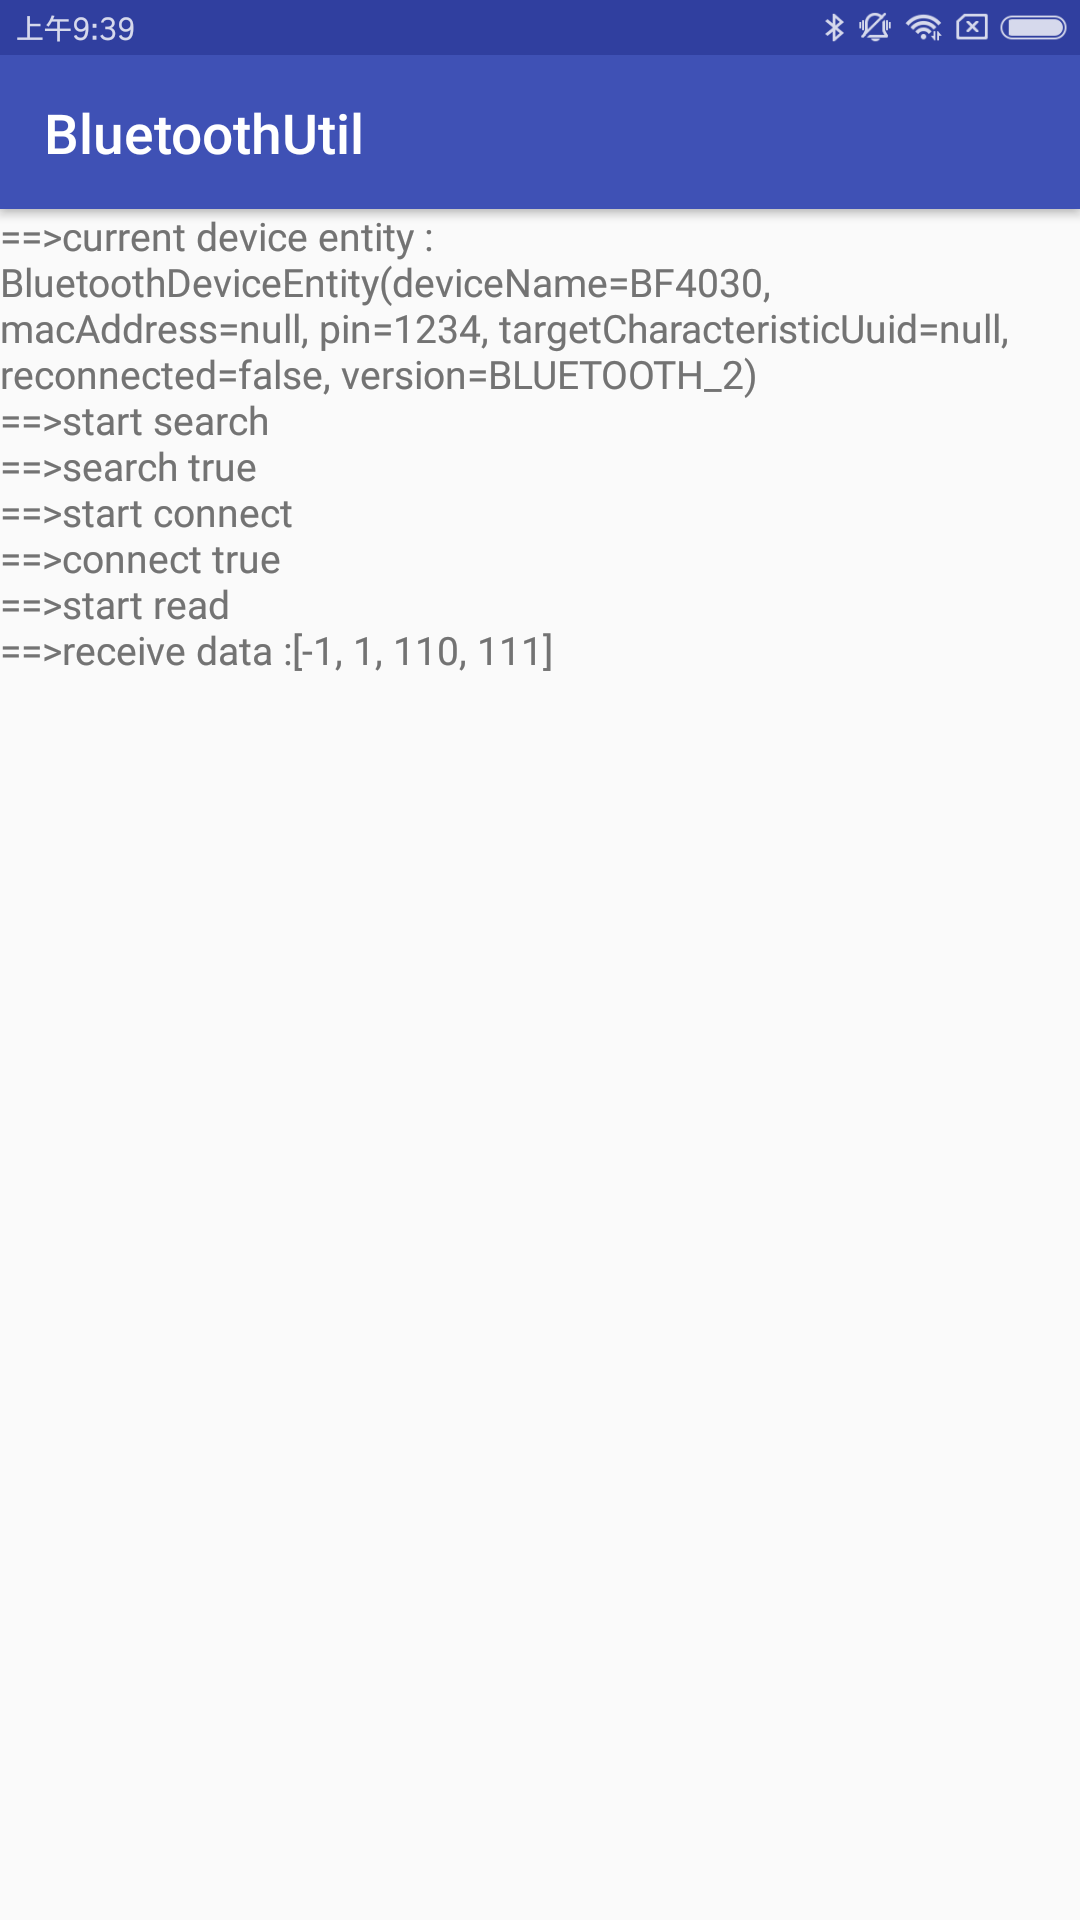
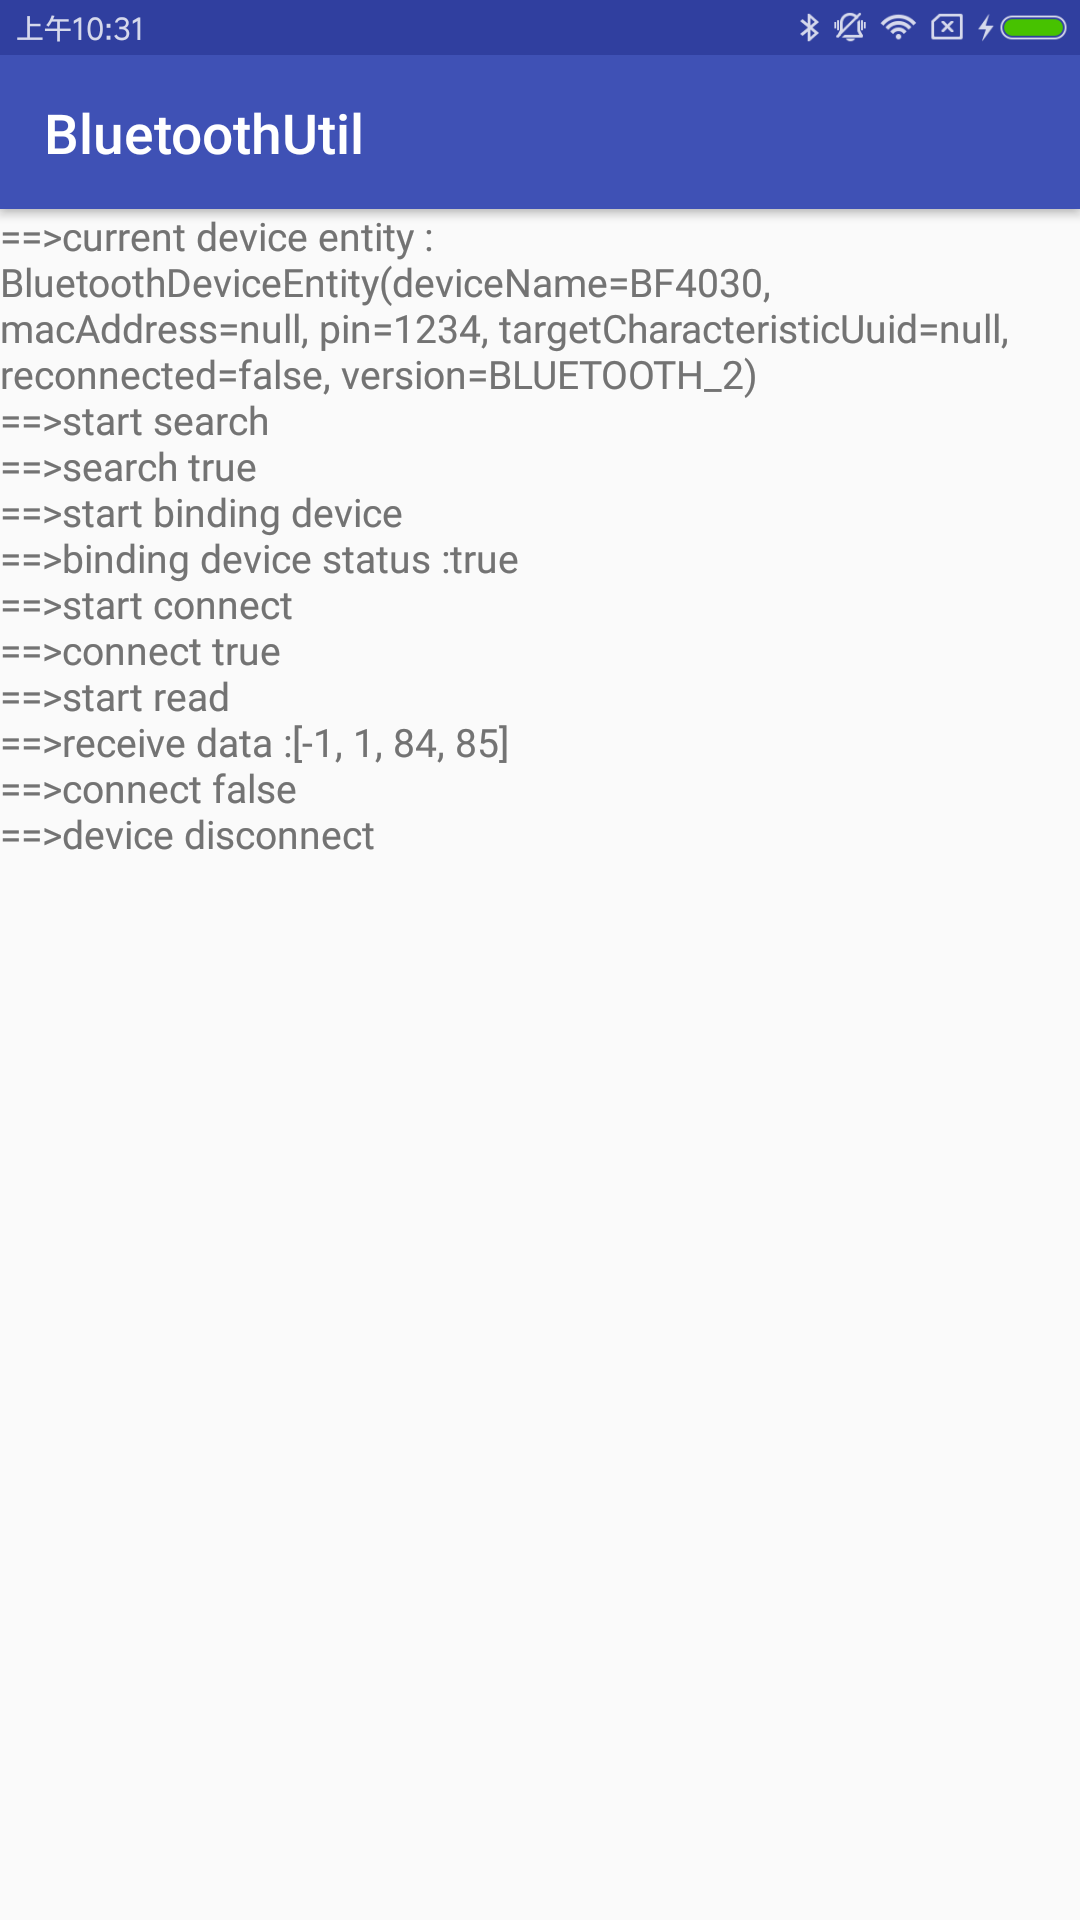
change measure progress callback

diff --git a/app/src/main/java/com/hd/bluetooth/MainActivity.kt b/app/src/main/java/com/hd/bluetooth/MainActivity.kt
@@ -23,7 +23,7 @@ import java.util.*
 
 class MainActivity : AppCompatActivity() {
 
-    private var version: Int = 2
+    private var version: Int = 4
 
     private val REQUEST_CODE = 10086
 
@@ -88,10 +88,6 @@ class MainActivity : AppCompatActivity() {
 
     private fun addProgress4Callback() = object : MeasureBle4ProgressCallback {
 
-        override fun write(bluetoothGattCharacteristic: BluetoothGattCharacteristic, bluetoothLeService: BluetoothLeService) {
-            BL.d("it's now allowed to write")
-        }
-
         override fun startSearch() {
             BL.d(" startSearch current thread:" + Thread.currentThread())
             showResult("==>start search \n")
@@ -99,6 +95,14 @@ class MainActivity : AppCompatActivity() {
 
         override fun searchStatus(success: Boolean) {
             showResult("==>search $success\n")
+        }
+
+        override fun startBinding() {
+            showResult("==>start binding device \n")
+        }
+
+        override fun boundStatus(success: Boolean) {
+            showResult("==>binding device status :$success \n")
         }
 
         override fun startConnect() {
@@ -111,6 +115,10 @@ class MainActivity : AppCompatActivity() {
 
         override fun startRead() {
             showResult("==>start read \n")
+        }
+
+        override fun write(bluetoothGattCharacteristic: BluetoothGattCharacteristic, bluetoothLeService: BluetoothLeService) {
+            BL.d("it's now allowed to write")
         }
 
         override fun reading(data: ByteArray) {
@@ -121,16 +129,9 @@ class MainActivity : AppCompatActivity() {
             BL.d("disconnect current thread:" + Thread.currentThread())
             showResult("==>device disconnect \n")
         }
-
-        override fun error(string: String) {
-            showResult("==>measure error : $string \n")
-        }
     }
 
     private fun addProgress2Callback() = object : MeasureBle2ProgressCallback {
-        override fun write(outputStream: OutputStream) {
-            BL.d("it's now allowed to write")
-        }
 
         override fun startSearch() {
             BL.d(" startSearch current thread:" + Thread.currentThread())
@@ -139,6 +140,14 @@ class MainActivity : AppCompatActivity() {
 
         override fun searchStatus(success: Boolean) {
             showResult("==>search $success\n")
+        }
+
+        override fun startBinding() {
+            showResult("==>start binding device \n")
+        }
+
+        override fun boundStatus(success: Boolean) {
+            showResult("==>binding device status :$success \n")
         }
 
         override fun startConnect() {
@@ -153,6 +162,10 @@ class MainActivity : AppCompatActivity() {
             showResult("==>start read \n")
         }
 
+        override fun write(outputStream: OutputStream) {
+            BL.d("it's now allowed to write")
+        }
+
         override fun reading(data: ByteArray) {
             showResult("==>receive data :${Arrays.toString(data)} \n")
         }
@@ -160,10 +173,6 @@ class MainActivity : AppCompatActivity() {
         override fun disconnect() {
             BL.d(" disconnect current thread:" + Thread.currentThread())
             showResult("==>device disconnect \n")
-        }
-
-        override fun error(string: String) {
-            showResult("==>measure error : $string \n")
         }
     }
 

diff --git a/bluetoothutil/src/main/java/com/hd/bluetoothutil/driver/Bluetooth2Handler.kt b/bluetoothutil/src/main/java/com/hd/bluetoothutil/driver/Bluetooth2Handler.kt
@@ -6,7 +6,6 @@ import android.bluetooth.BluetoothSocket
 import android.content.Context
 import android.os.Build
 import android.os.SystemClock
-import com.hd.bluetoothutil.R
 import com.hd.bluetoothutil.callback.MeasureBle2ProgressCallback
 import com.hd.bluetoothutil.config.BleMeasureStatus
 import com.hd.bluetoothutil.config.BluetoothDeviceEntity
@@ -68,16 +67,16 @@ class Bluetooth2Handler(context: Context, entity: BluetoothDeviceEntity,
     override fun startConnect() {
         BL.d("start connect device : $targetDevice + ${targetDevice!!.bondState}")
         if (targetDevice!!.bondState != BluetoothDevice.BOND_BONDED) {
+            callback.boundStatus(false)
             if (Build.VERSION.SDK_INT >= Build.VERSION_CODES.KITKAT) {
                 /** manual binding*/
                 BL.d("manual binding")
-                if(targetDevice!!.createBond()){
+                if (targetDevice!!.createBond()) {
                     Thread(ConnectRunnable(targetDevice!!)).start()
-                }else{
-                    callback.error(context.resources.getString(R.string.binding_failed))
                 }
             }
         } else {
+            callback.boundStatus(true)
             Thread(ConnectRunnable(targetDevice!!)).start()
         }
     }
@@ -150,16 +149,9 @@ class Bluetooth2Handler(context: Context, entity: BluetoothDeviceEntity,
                 byteBuffer.clear()
                 return false
             } else {
-                error(NullPointerException(Bluetooth2Handler::class.java.simpleName))
+                reconnected()
             }
             return true
-        }
-
-        private fun error(e: Exception? = null) {
-            BL.d("bluetooth handler2 error :" + e)
-            stopMeasure()
-            callback.disconnect()
-            callback.error()
         }
 
         private val default_reconnected_number = 5
@@ -175,7 +167,7 @@ class Bluetooth2Handler(context: Context, entity: BluetoothDeviceEntity,
                 run()
             } else {
                 callback.connectStatus(false)
-                error(IOException(Bluetooth2Handler::class.java.simpleName))
+                callback.disconnect()
             }
         }
     }

diff --git a/bluetoothutil/src/main/java/com/hd/bluetoothutil/BluetoothController.kt b/bluetoothutil/src/main/java/com/hd/bluetoothutil/BluetoothController.kt
@@ -5,7 +5,6 @@ import android.content.Context
 import com.hd.bluetoothutil.callback.MeasureBle2ProgressCallback
 import com.hd.bluetoothutil.callback.MeasureBle4ProgressCallback
 import com.hd.bluetoothutil.callback.MeasureProgressCallback
-import com.hd.bluetoothutil.callback.SecurityCheckCallback
 import com.hd.bluetoothutil.config.BluetoothDeviceEntity
 import com.hd.bluetoothutil.config.DeviceVersion
 import com.hd.bluetoothutil.driver.Bluetooth2Handler
@@ -46,11 +45,7 @@ object BluetoothController {
     private fun initBlueHandler(context: Context, entity: BluetoothDeviceEntity, callback: MeasureProgressCallback) {
         BL.d("BluetoothController initBlueHandler")
         val targetVersion = entity.version
-        val mBluetoothAdapter = BluetoothSecurityCheck.newInstance(context, object : SecurityCheckCallback {
-            override fun securityHint(hint: String) {
-                callback.error(hint)
-            }
-        }).check(targetVersion)
+        val mBluetoothAdapter = BluetoothSecurityCheck.newInstance(context).check(targetVersion)
         if (mBluetoothAdapter != null) {
             if (targetVersion === DeviceVersion.BLUETOOTH_2 && callback is MeasureBle2ProgressCallback) {
                 bluetoothHandler = Bluetooth2Handler(context, entity, mBluetoothAdapter, callback)

diff --git a/bluetoothutil/src/main/java/com/hd/bluetoothutil/callback/MeasureProgressCallback.kt b/bluetoothutil/src/main/java/com/hd/bluetoothutil/callback/MeasureProgressCallback.kt
@@ -18,6 +18,17 @@ interface MeasureProgressCallback {
     fun searchStatus(success: Boolean)
 
     /**
+     * start binding bluetooth device
+     */
+    fun startBinding()
+
+    /**
+     * [com.hd.bluetoothutil.config.DeviceVersion.BLUETOOTH_4] default is binding
+     * @param success return true if the device binding is successful
+     */
+    fun boundStatus(success: Boolean)
+
+    /**
      * start connect bluetooth device ,it may be called many times at connect again
      */
     fun startConnect()
@@ -42,10 +53,5 @@ interface MeasureProgressCallback {
      * disconnect bluetooth device
      */
     fun disconnect()
-
-    /**
-     * unknown errors in the measurement process
-     */
-    fun error(string: String="测量失败")
 
 }

diff --git a/bluetoothutil/src/main/java/com/hd/bluetoothutil/driver/BluetoothHandler.kt b/bluetoothutil/src/main/java/com/hd/bluetoothutil/driver/BluetoothHandler.kt
@@ -72,10 +72,12 @@ abstract class BluetoothHandler(val context: Context, val entity: BluetoothDevic
     private fun notificationSearchStatus() {
         if (!searchComplete) {
             searchComplete = true
-            if (targetDevice == null)
+            if (targetDevice == null) {
                 callback.searchStatus(false)
-            else
+            } else {
                 callback.searchStatus(true)
+                callback.startBinding()
+            }
         }
     }
 

diff --git a/bluetoothutil/src/main/java/com/hd/bluetoothutil/scan/Bluetooth2Scanner.kt b/bluetoothutil/src/main/java/com/hd/bluetoothutil/scan/Bluetooth2Scanner.kt
@@ -57,7 +57,6 @@ class Bluetooth2Scanner : BluetoothBaseScanner() {
             override fun scan(scanComplete: Boolean, device: BluetoothDevice?) {
                 if (continueScan())
                     if (device != null) {
-                        BL.d("scan device :"+device.name)
                         /** your need bound target device,so,the same device will not be notified here */
                         if (!sameDevice(device))
                             scanComplete(device)

diff --git a/bluetoothutil/src/main/java/com/hd/bluetoothutil/driver/Bluetooth4Handler.kt b/bluetoothutil/src/main/java/com/hd/bluetoothutil/driver/Bluetooth4Handler.kt
@@ -37,6 +37,7 @@ class Bluetooth4Handler(context: Context, entity: BluetoothDeviceEntity,
     }
 
     override fun startConnect() {
+        callback.boundStatus(true)
         if (mbluetoothLeService != null) {
             val connectStatus = mbluetoothLeService!!.connect(targetDevice!!.address)
             callback.connectStatus(connectStatus)

diff --git a/bluetoothutil/src/main/java/com/hd/bluetoothutil/scan/BluetoothBaseScanner.kt b/bluetoothutil/src/main/java/com/hd/bluetoothutil/scan/BluetoothBaseScanner.kt
@@ -36,7 +36,6 @@ abstract class BluetoothBaseScanner {
         callback!!.scan(!continueScan(), device)
         /** scanning to the target device */
         if (continueScan() && sameDevice(device)) {
-            BL.d("found target device is ：${device!!.name} + ${device.bondState}")
             stopScan()
         }
     }
